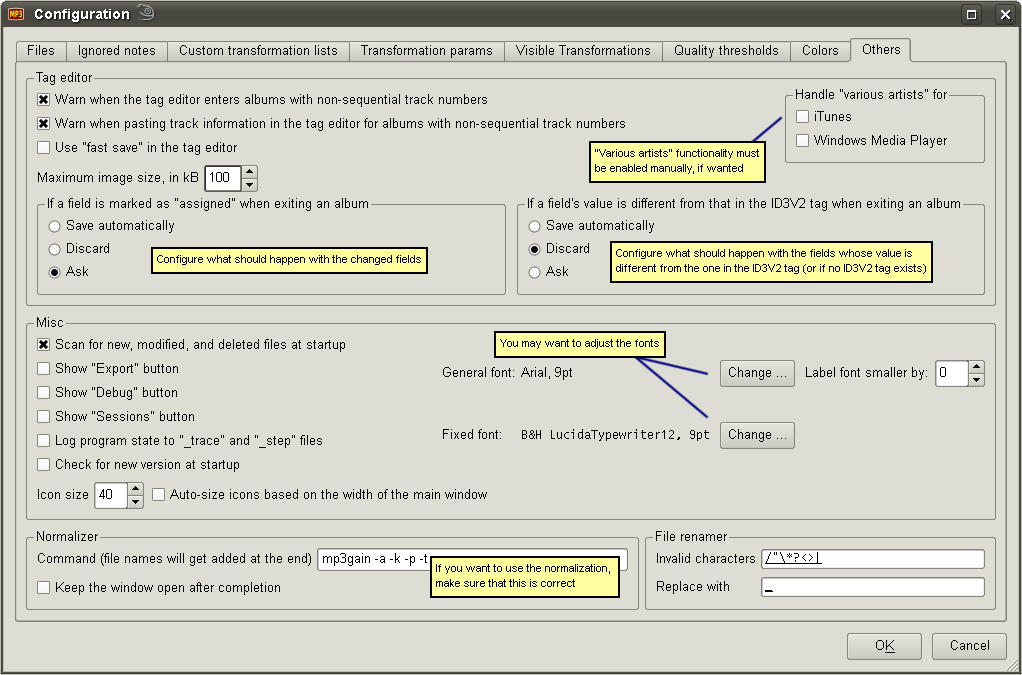
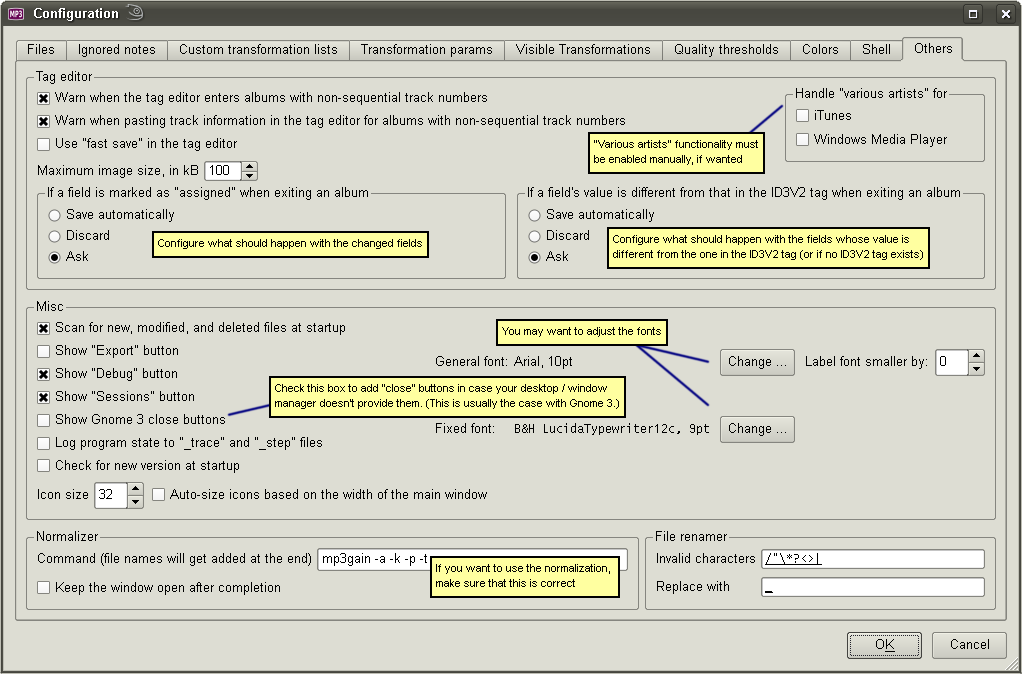
Updated doc for close buttons in Gnome 3

diff --git a/mp3diags/doc/html/300_config_others.html b/mp3diags/doc/html/300_config_others.html
@@ -68,6 +68,10 @@ Here are the settings that don't belong anywere else.
 Among other things, you can play with the icon size.
 </div>
 
+<div class="NormalText RegFnt ChpCol2">
+Also, you can choose here to display "close" buttons in the upper-right corner of several windows, which allows you to close those windows easier with the mouse. This is a usually a Gnome 3 issue, but it depends on how Gnome 3 has been configured. The default for the this setting, is not always correct. The idea is to show these buttons if Gnome 3 is installed. One issue is that this is not always the right thing to do, for several reasons. Another issue is that the detection of Gnome 3 isn't quite right. If anybody has better ideas, please let me know.
+</div>
+
 
 
 <div class="NavPadTable RegFnt ChpCol1">
